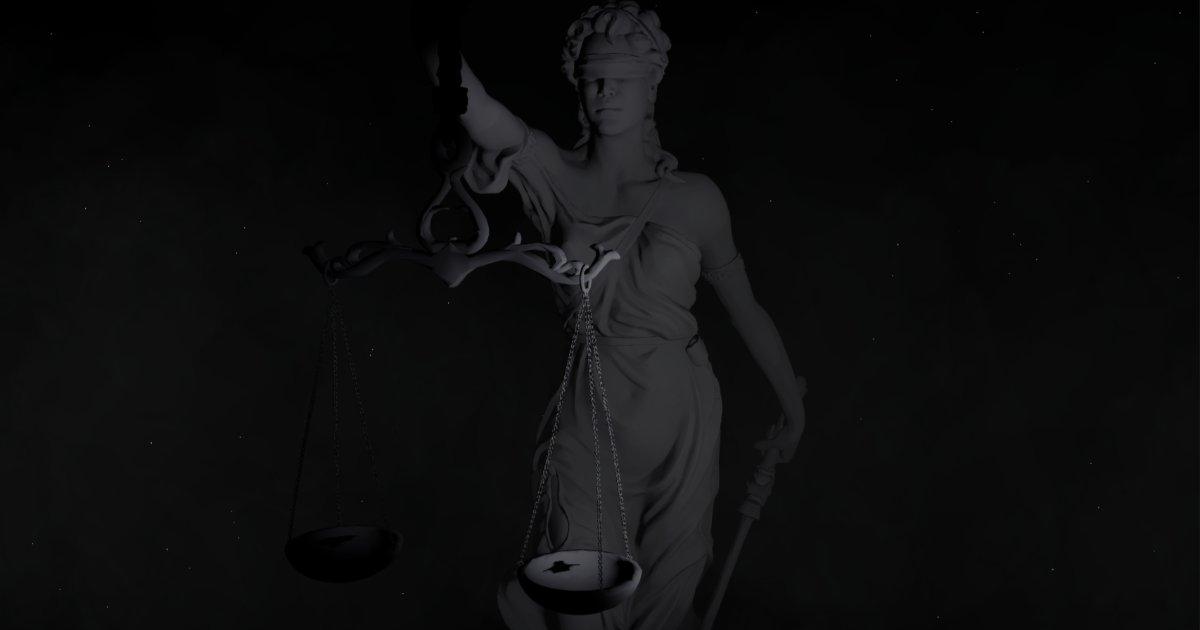
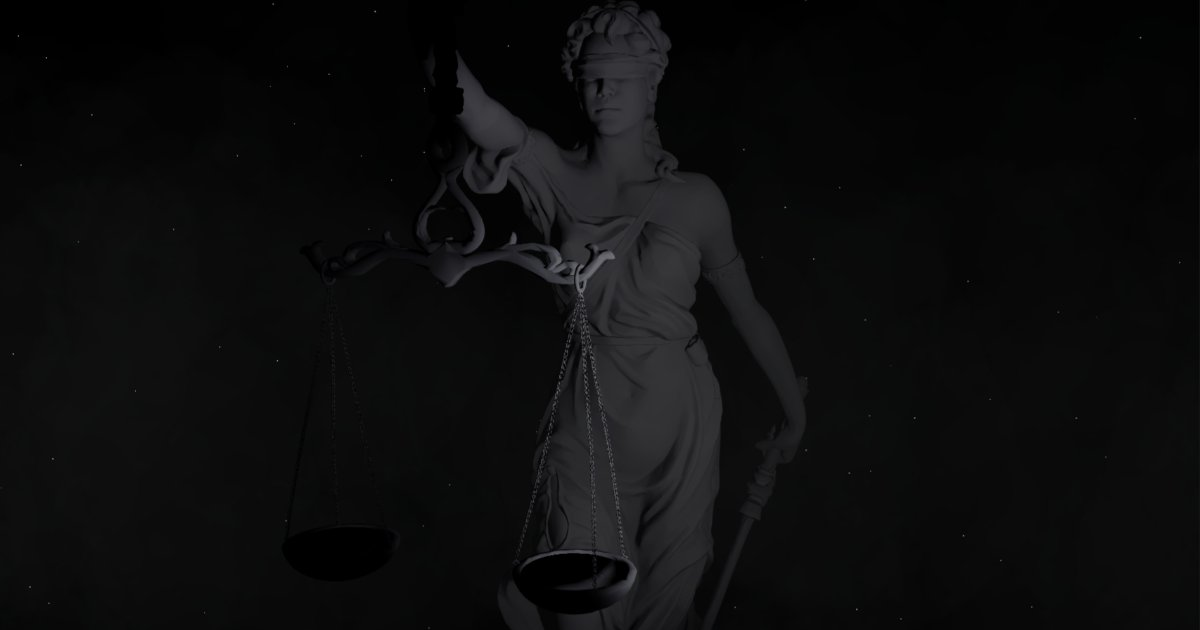
feat(statue): deeper, crisper self-shadows
VSM shadow map 512 -> 1024, blur radius 3.5 -> 2.5 texels, 16 blur
samples (was 12). Compared on frozen-time frames (same light and pose):
the wider blur had washed out the statue's self-shadowing; the folds,
neck and the underside of the arm now read with more depth, with no acne
or banding. Governance poster re-captured.

Claude-Session: https://claude.ai/code/session_01Vfbzc6RXiZzHMN87fvMCKc

diff --git a/src/components/canvas/scenes/statue-scene.tsx b/src/components/canvas/scenes/statue-scene.tsx
@@ -84,10 +84,10 @@ function Statue() {
 				penumbra={0.5}
 				castShadow
 				intensity={1500}
-				shadow-mapSize={512}
+				shadow-mapSize={1024}
 				shadow-bias={-0.0008}
-				shadow-radius={3.5}
-				shadow-blurSamples={12}
+				shadow-radius={2.5}
+				shadow-blurSamples={16}
 			>
 				<orthographicCamera
 					attach="shadow-camera"
